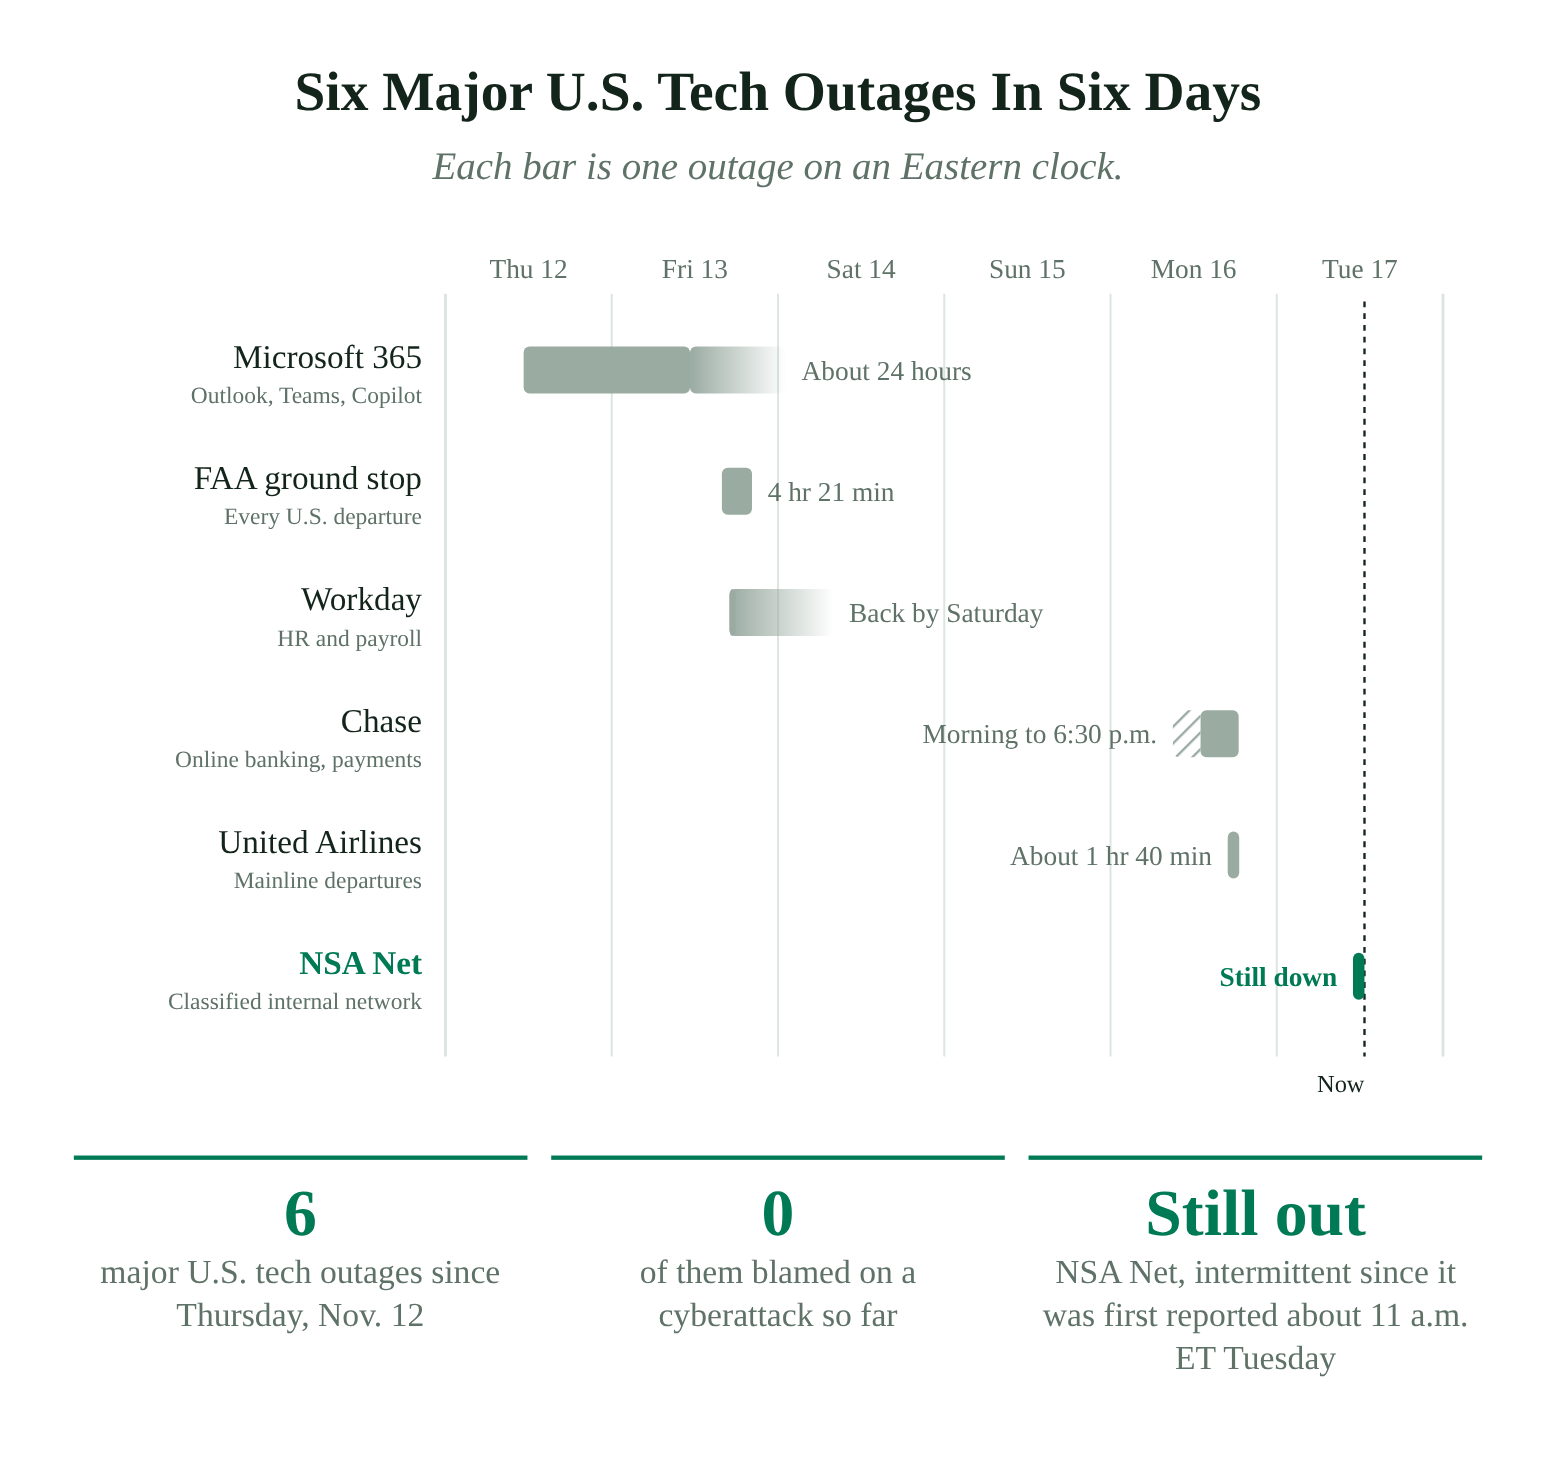
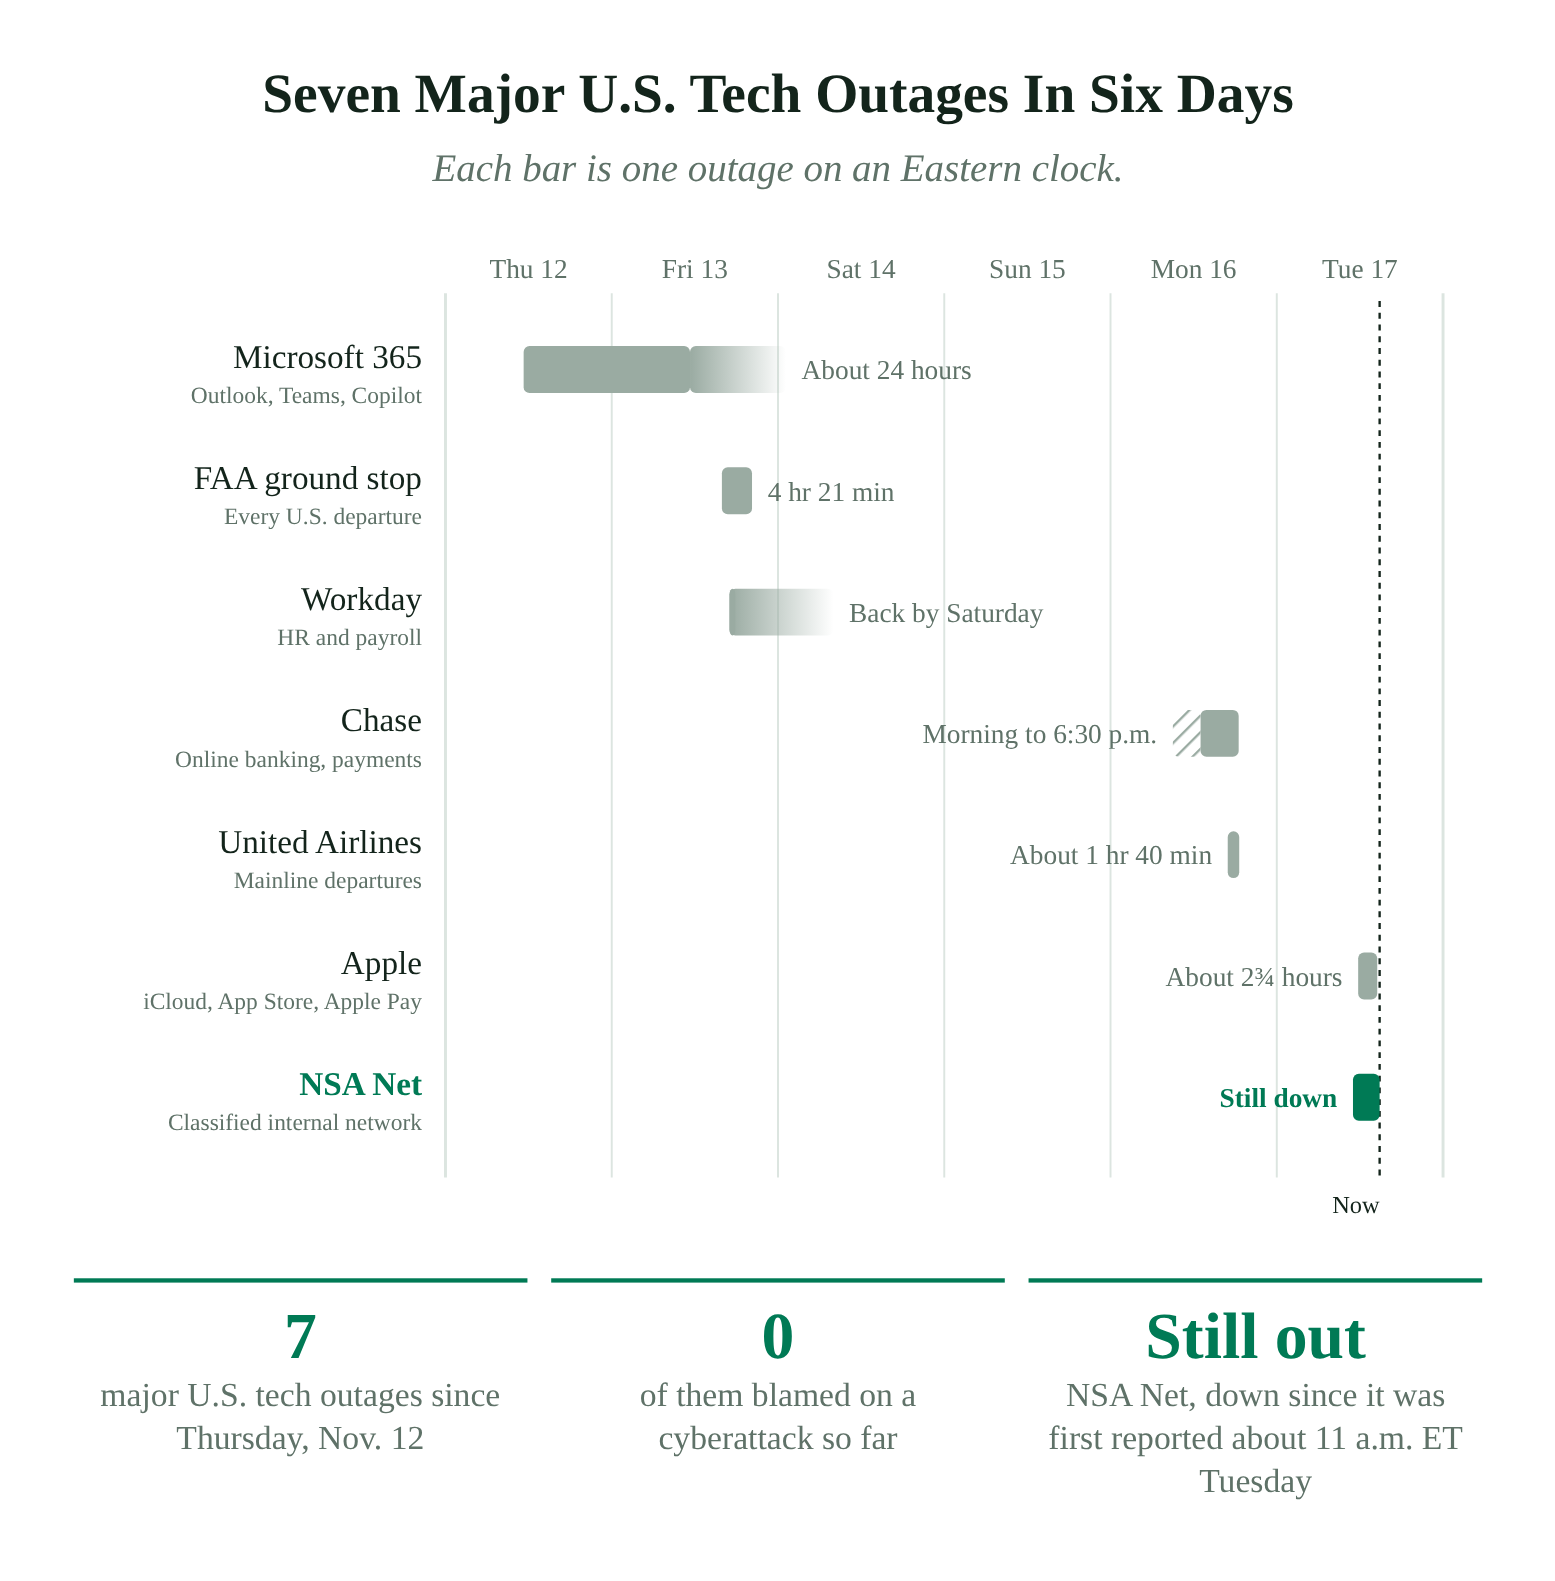
NSA outage story: add Apple outage as seventh bar; seven outages in six days
Claude-Session: https://claude.ai/code/session_01DsVn62vh9YHra7AHGauuvq

diff --git a/outages/post-body.html b/outages/post-body.html
@@ -1,7 +1,7 @@
 <style>.nid-a h2{margin:1.6em 0 .5em}.nid-a .nid-fig{margin:2.4em auto;max-width:620px}.nid-a .nid-fig img{width:100%;height:auto;display:block;border:1px solid #e6e3dd;border-radius:6px}.nid-a .nid-fig figcaption{font-size:.82em;color:#5f7268;margin-top:.5em;line-height:1.4}.nid-a .nid-upd{font-family:-apple-system,"Helvetica Neue",Arial,sans-serif;font-size:.8em;line-height:1.5;color:#4a5550;border-left:3px solid #007a55;padding:2px 0 2px 12px;margin:0 0 1.4em}.nid-a .nid-upd b{color:#007a55}.nid-a .nid-note{background:#f3f7f5;border-radius:6px;padding:.9em 1.1em;font-size:.95em}</style><style>.nid-a .nid-rel{max-width:620px;margin:2.2em auto;font-family:-apple-system,"Helvetica Neue",Arial,sans-serif}.nid-a .nid-rel a{display:flex;gap:16px;align-items:center;padding:14px 16px;border:1px solid #e6e3dd;border-left:4px solid #007a55;border-radius:10px;background:#fff;text-decoration:none;color:#13241b}.nid-a .nid-rel a:hover{border-color:#007a55}.nid-a .nid-rel img{width:120px;height:80px;object-fit:cover;border-radius:6px;border:1px solid #e6e3dd;flex:none;display:block}.nid-a .nid-rel-k{display:block;font-size:12px;font-weight:700;letter-spacing:.07em;text-transform:uppercase;color:#007a55;margin-bottom:4px}.nid-a .nid-rel-t{display:block;font-family:"Times New Roman",Times,serif;font-size:20px;font-weight:700;line-height:1.2;color:#13241b}.nid-a .nid-rel-go{display:block;font-size:13px;font-weight:600;color:#007a55;margin-top:6px}@media(max-width:480px){.nid-a .nid-rel img{width:88px;height:66px}.nid-a .nid-rel-t{font-size:18px}}</style><div class="nid-a">
 <p class="nid-upd"><b id="nid-out-updated-t">Updated 12:25 p.m. Eastern on Nov. 17, 2026</b> &middot; <span id="nid-out-updated-s">NSA Net was working only intermittently at last report, and the agency has not commented</span></p>
-<p>The National Security Agency's classified internal network, NSA Net, went down on Tuesday, Nov. 17, CNN reported, citing six people familiar with the matter. It is the sixth major technology failure in the United States in six days, after outages at Microsoft, the Federal Aviation Administration, Workday, JPMorgan Chase and United Airlines, and none of the six has been blamed on a cyberattack.</p>
-<div id="nid-out" data-npc-after><figure class="nid-fig"><img src="https://stories.thenewsindata.com/outages/outages-tall.png" alt="Timeline of six U.S. technology outages from Nov. 12 to Nov. 17, 2026: Microsoft 365, the FAA ground stop, Workday, Chase, United Airlines and NSA Net." width="2160" height="2700"></figure></div>
+<p>The National Security Agency's classified internal network, NSA Net, went down on Tuesday, Nov. 17, CNN reported, citing six people familiar with the matter, and within the hour Apple's iCloud, App Store and Apple Pay began failing too. They are the sixth and seventh major technology failures in the United States in six days, after outages at Microsoft, the Federal Aviation Administration, Workday, JPMorgan Chase and United Airlines, and none of the seven has been blamed on a cyberattack.</p>
+<div id="nid-out" data-npc-after><figure class="nid-fig"><img src="https://stories.thenewsindata.com/outages/outages-tall.png" alt="Timeline of seven U.S. technology outages from Nov. 12 to Nov. 17, 2026: Microsoft 365, the FAA ground stop, Workday, Chase, United Airlines, Apple and NSA Net." width="2160" height="2700"></figure></div>
 <div id="nid-out-status"><p>As of 12:25 p.m. Eastern on Tuesday, no outlet had reported NSA Net fully restored. A person familiar with it told Recorded Future News the network was providing intermittent service rather than none, and that arrivals at Fort Meade were staggered so tens of thousands of employees would not all sign in at once. The agency had not commented, and CNN's sources said there was no evidence of a cyberattack.</p></div>
 <h2>What NSA Net is</h2>
 <p>NSA Net is the network the agency's employees use to share classified information with one another. While the agency works out how far the problem reaches, it has staggered when employees arrive for work, according to CNN's sources. Another person told Recorded Future News that the network had been unstable for weeks. A current and a former U.S. official told CNN the outage would not stop urgent intelligence from reaching President Trump, who is traveling in Asia, because the government has several backup networks for that.</p>
@@ -12,10 +12,11 @@
 <figure class="nid-fig"><img src="https://upload.wikimedia.org/wikipedia/commons/thumb/b/b5/Departure_Board_for_Toronto_YYZ_during_FAA_Ground_Stop%2C_November_13_2026_%2802%29.jpg/960px-Departure_Board_for_Toronto_YYZ_during_FAA_Ground_Stop%2C_November_13_2026_%2802%29.jpg" alt="An airport departures board listing flights during the FAA ground stop" loading="lazy"><figcaption>The departures board at Toronto Pearson International Airport during the FAA ground stop on Friday, Nov. 13, 2026. Photo: <a href="https://commons.wikimedia.org/wiki/File:Departure_Board_for_Toronto_YYZ_during_FAA_Ground_Stop,_November_13_2026_(02).jpg">Dillan Payne</a>, <a href="https://creativecommons.org/licenses/by-sa/4.0/">CC BY-SA 4.0</a>, via Wikimedia Commons.</figcaption></figure>
 <p>Monday brought two more. Chase customers reported trouble from the morning until about 6:30 p.m. Eastern, which the bank blamed on a software bug in one of its own hardware systems, and United delayed departures for about an hour and 40 minutes because pilots could not get the weight calculations they need before takeoff.</p>
 <figure class="nid-fig"><img src="https://upload.wikimedia.org/wikipedia/commons/thumb/7/70/A_Chase_Bank_branch_in_Knoxville%2C_Tennessee.jpg/960px-A_Chase_Bank_branch_in_Knoxville%2C_Tennessee.jpg" alt="The front of a Chase bank branch with its blue sign" loading="lazy"><figcaption>A Chase branch in Knoxville, Tennessee. Chase customers reported trouble with online banking and payments on Monday, Nov. 16. Photo: <a href="https://commons.wikimedia.org/wiki/File:A_Chase_Bank_branch_in_Knoxville,_Tennessee.jpg">Harrison Keely</a>, <a href="https://creativecommons.org/licenses/by/4.0/">CC BY 4.0</a>, via Wikimedia Commons.</figcaption></figure>
-<p>Laid end to end, the four finished outages with reported times add up to roughly 35 to 40 hours, about a day and a half of downtime at major American systems in less than a week. The range comes from Chase, whose problems began sometime Monday morning, and the total leaves out Workday, which has not said when service returned.</p>
+<p>Tuesday brought two. Besides NSA Net, Apple's services began failing at about 11:45 a.m. Eastern: users were signed out of iCloud and could not reach the App Store, Apple Pay or Apple Music, and Apple stores could not complete sales. Apple blamed an internal update, said it was not a cyberattack and said by about 2:30 p.m. that the problem was largely resolved.</p>
+<p>Laid end to end, the five finished outages with reported times add up to roughly 38 to 43 hours, more than a day and a half of downtime at major American systems in less than a week. The range comes from Chase, whose problems began sometime Monday morning, and the total leaves out Workday, which has not said when service returned.</p>
 <aside class="nid-rel" aria-label="Related story"><a href="/stories/the-faa-has-halted-every-us-departure-only-three-times-and-the-nov-13-stop-is-the-first-to-start-after-noon"><img src="https://stories.thenewsindata.com/groundstop/groundstop-lead.png" alt="Chart of the three nationwide FAA ground stops" loading="lazy"><span><span class="nid-rel-k">Related · Travel</span><span class="nid-rel-t">FAA Grounds Flights For Third Time In History</span><span class="nid-rel-go">See the chart →</span></span></a></aside>
 <h2>What is not known</h2>
 <div id="nid-out-notknown"><p>What caused the outage, when it began, how many of the agency's employees and sites are affected and when the network will return. The NSA has not said whether it is related to any of the week's other failures, and no official or major outlet has reported a link.</p><p>This story reflects reporting through 12:25 p.m. Eastern on Nov. 17 and is checked every hour; the chart's last bar keeps growing until the NSA's network is reported back.</p></div>
-<p class="nid-note"><b>How we drew the chart.</b> Each bar starts and ends at the times reported by the company or agency, or by AP, CNN, CBS, NBC or Fox when the company gave none. A hatched segment means a start that was described only roughly (Chase's problems began "Monday morning"), and a fading segment means an end that was described only as "by Saturday" (Workday) or as the last customers coming back (Microsoft). The NSA bar starts when the outage was first reported, not when it began, because that time has not been made public.</p>
+<p class="nid-note"><b>How we drew the chart.</b> Each bar starts and ends at the times reported by the company or agency, or by AP, CNN, CBS, NBC or Fox when the company gave none. A hatched segment means a start that was described only roughly (Chase's problems began "Monday morning"), and a fading segment means an end that was described only as "by Saturday" (Workday) or as the last customers coming back (Microsoft). Apple's bar ends when the company said the problem was largely resolved. The NSA bar starts when the outage was first reported, not when it began, because that time has not been made public.</p>
 <aside class="nid-rel" aria-label="Related story"><a href="/stories/more-than-five-times-as-many-americans-are-more-concerned-than-excited-about-ai-up-from-about-two-to-one-in-2021"><img src="https://stories.thenewsindata.com/aiworry/aiworry-preview.png" alt="Chart of Americans more concerned than excited about AI" loading="lazy"><span><span class="nid-rel-k">Related · AI &amp; Tech</span><span class="nid-rel-t">Concern About AI Outruns Excitement Five To One</span><span class="nid-rel-go">See the chart →</span></span></a></aside></div>
 <script src="https://stories.thenewsindata.com/outages/embed.js?v=1"></script>

diff --git a/outages/embed.js b/outages/embed.js
@@ -1,4 +1,4 @@
-/* The News in Data: "Six outages in six days" live timeline.
+/* The News in Data: "Seven outages in six days" live timeline.
    Reads outages/status.json on every load (falls back to the copy below), draws one bar per outage
    on an Eastern clock from Thu Nov 12 to Wed Nov 18, 2026, and keeps the NSA bar growing until
    status.json reports the network back. Fills #nid-out (chart) and the text slots named below. */
@@ -41,9 +41,9 @@ function draw(box,S){
  var nsaEnd=S.nsa_end!=null?S.nsa_end:null;
  box.innerHTML='';
  var hd=document.createElement('div');
- hd.innerHTML='<p class="no-h" style="font-family:&quot;Times New Roman&quot;,Times,serif !important;font-weight:700 !important;font-size:1.35em !important;line-height:1.2 !important;text-align:center !important;color:#13241B !important;margin:0 0 .2em !important">Six Major U.S. Tech Outages In Six Days</p><p class="no-d" style="font-family:&quot;Times New Roman&quot;,Times,serif !important;font-style:italic !important;text-align:center !important;color:#5F7268 !important">Each bar is one outage on an Eastern clock. Tap a bar for what failed and why.</p><div class="no-live"><span class="no-dot"></span><span id="no-livetxt"></span></div>';
+ hd.innerHTML='<p class="no-h" style="font-family:&quot;Times New Roman&quot;,Times,serif !important;font-weight:700 !important;font-size:1.35em !important;line-height:1.2 !important;text-align:center !important;color:#13241B !important;margin:0 0 .2em !important">Seven Major U.S. Tech Outages In Six Days</p><p class="no-d" style="font-family:&quot;Times New Roman&quot;,Times,serif !important;font-style:italic !important;text-align:center !important;color:#5F7268 !important">Each bar is one outage on an Eastern clock. Tap a bar for what failed and why.</p><div class="no-live"><span class="no-dot"></span><span id="no-livetxt"></span></div>';
  box.appendChild(hd);
- var svg=el('svg',{viewBox:'0 0 '+W+' '+H,role:'img','aria-label':'Timeline of six U.S. technology outages from Nov. 12 to Nov. 17, 2026'});
+ var svg=el('svg',{viewBox:'0 0 '+W+' '+H,role:'img','aria-label':'Timeline of seven U.S. technology outages from Nov. 12 to Nov. 17, 2026'});
  box.appendChild(svg);
  for(var d=0;d<=6;d++){var x=X(d*24);svg.appendChild(el('line',{x1:x,x2:x,y1:TOP-14,y2:H-30,stroke:RULE,'stroke-width':d%6?1:1.5}));
   if(d<6)svg.appendChild(el('text',{x:X(d*24+12),y:TOP-22,'text-anchor':'middle','font-size':14,fill:MUTED,'font-family':'Times New Roman,serif'},DAYS[d]));}

diff --git a/outages/home-lead.html b/outages/home-lead.html
@@ -1,11 +1,11 @@
 <div class="lead">
   <div>
     <p class="kicker">Top story &middot; Trending</p>
-    <h1><a href="/stories/the-nsas-classified-network-is-down-the-sixth-major-us-tech-outage-in-six-days">The NSA&rsquo;s classified network is down, the sixth U.S. tech outage in six days</a></h1>
-    <p class="dek">CNN reported Tuesday that NSA Net, the agency&rsquo;s classified internal network, was down, after failures at Microsoft, the FAA, Workday, Chase and United. None of the six has been blamed on a cyberattack.</p>
-    <div class="stats"><div class="hi"><b>6</b><span>major U.S. tech outages since Nov. 12</span></div><div><b>0</b><span>blamed on a cyberattack</span></div><div><b>~35&ndash;40</b><span>hours of downtime in the four finished outages with times</span></div></div>
+    <h1><a href="/stories/the-nsas-classified-network-is-down-the-sixth-major-us-tech-outage-in-six-days">Apple and the NSA went down Tuesday, the sixth and seventh U.S. tech outages in six days</a></h1>
+    <p class="dek">NSA Net, the agency&rsquo;s classified internal network, went down Tuesday, and within the hour Apple&rsquo;s iCloud, App Store and Apple Pay failed too, after outages at Microsoft, the FAA, Workday, Chase and United. None of the seven has been blamed on a cyberattack.</p>
+    <div class="stats"><div class="hi"><b>7</b><span>major U.S. tech outages since Nov. 12</span></div><div><b>0</b><span>blamed on a cyberattack</span></div><div><b>~38&ndash;43</b><span>hours of downtime in the five finished outages with times</span></div></div>
     <a class="more" href="/stories/the-nsas-classified-network-is-down-the-sixth-major-us-tech-outage-in-six-days">Read the story &rsaquo;</a>
   </div>
-  <div class="poster" id="nid-out"><a href="/stories/the-nsas-classified-network-is-down-the-sixth-major-us-tech-outage-in-six-days"><img src="https://stories.thenewsindata.com/outages/outages-tall.png" alt="Timeline of six U.S. technology outages from Nov. 12 to Nov. 17, 2026, ending with NSA Net" loading="eager"></a></div>
+  <div class="poster" id="nid-out"><a href="/stories/the-nsas-classified-network-is-down-the-sixth-major-us-tech-outage-in-six-days"><img src="https://stories.thenewsindata.com/outages/outages-tall.png" alt="Timeline of seven U.S. technology outages from Nov. 12 to Nov. 17, 2026, ending with Apple and NSA Net" loading="eager"></a></div>
 </div>
 <script src="https://stories.thenewsindata.com/outages/embed.js?v=1"></script>

diff --git a/outages/UPDATE.md b/outages/UPDATE.md
@@ -1,6 +1,6 @@
 # NSA outage story: how to update it
 
-The story ("The NSA's classified network is down, the sixth major U.S. tech outage in six days") reads `outages/status.json` on every page load. Updating that one file updates the article's status line, its status paragraph, the "What is not known" paragraphs, the chart, the live counter and the fact tiles. Do not edit Squarespace or any other file.
+The story ("Apple And The NSA Went Down Tuesday, The Sixth And Seventh Major U.S. Tech Outages In Six Days") reads `outages/status.json` on every page load. Updating that one file updates the article's status line, its status paragraph, the "What is not known" paragraphs, the chart, the live counter and the fact tiles. Do not edit Squarespace or any other file.
 
 ## Steps
 1. Search the news (WebSearch, then WebFetch on the best results) for the current state of NSA Net, the National Security Agency's classified internal network, first reported down by CNN on Tuesday, Nov. 17, 2026: whether it is back and when, the stated cause, NSA or administration statements, how many people or sites are affected. Prefer NSA, ODNI, White House and Pentagon statements, AP, Reuters, CNN, CBS, NBC, ABC, NPR, the Washington Post, the New York Times and the Wall Street Journal over aggregators.
@@ -13,7 +13,7 @@ Times are hours on an Eastern clock counted from midnight starting Thursday, Nov
 - `headline_status`: one short sentence for the top line, e.g. "NSA Net was still down at last report" or "NSA Net was reported back at 4:40 p.m. Eastern".
 - `nsa_start`: leave at 131 (first reported) unless a named source reports when the network actually failed; then set it to that time and update `nsa_start_label` and the NSA entry in `outages`.
 - `nsa_end`: null while it is down. Set it only when a named source reports the network is restored, to the reported time (or the time of that report if none is given), and fill `nsa_end_label` (e.g. "about 4:40 p.m. Eastern Tuesday"). Never infer it.
-- `outages`: the six bars. Change only the NSA entry's `label` (shown when it has ended, e.g. "About 6 hours") and `note`, unless a named source corrects another outage's times.
+- `outages`: the seven bars. Change only the NSA entry's `label` (shown when it has ended, e.g. "About 6 hours") and `note`, unless a named source corrects another outage's times.
 - `status_html`: the paragraph under the chart: is it still down or when it came back, how long since it was first reported, the latest official word on cause. Three or four sentences.
 - `notknown_html`: two short `<p>` paragraphs: what is still unknown, and "This story reflects reporting through <time> ..." with what will be updated next.
 - `facts`: exactly three [figure, description] tiles. Keep the first two (change the second only if an outage is attributed to an attack by an official or major outlet). The third is NSA Net's status.
